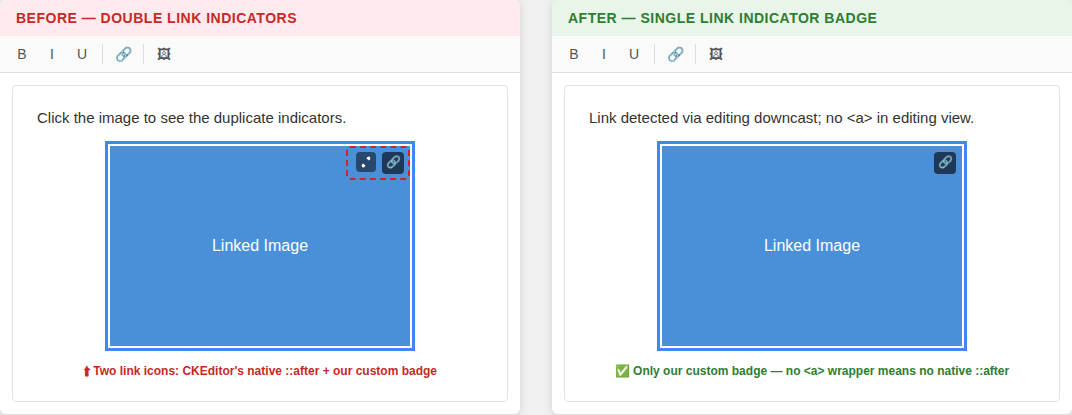
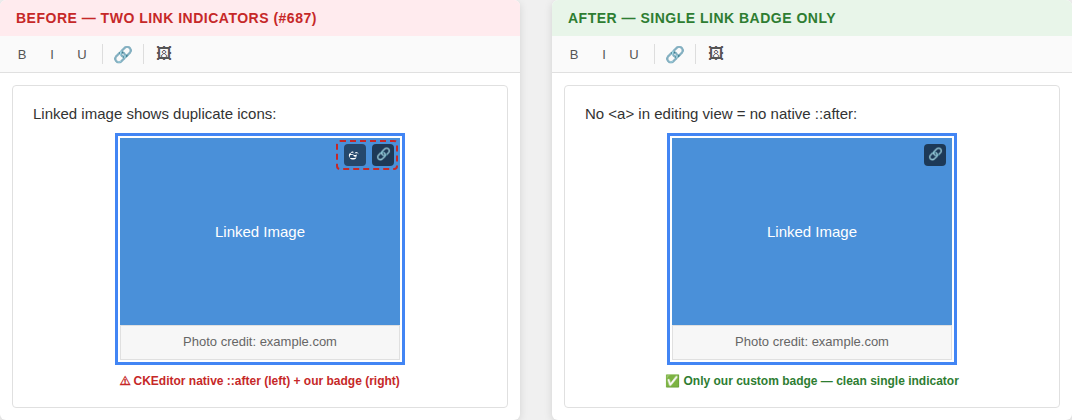
fix: address review comments on #688
- Extract isValidLink() helper to deduplicate link validation (#687)
- Add width/height to editing downcast attribute lists so max-width
  updates when image dimensions change (#686)
- Fix CSS comment to accurately describe selector scoping
- Import beforeEach from vitest in editing-downcast tests
- Simplify data downcast test to assert directly on element name
- Update before/after screenshots with more accurate mockups

diff --git a/Resources/Public/JavaScript/Plugins/typo3image.js b/Resources/Public/JavaScript/Plugins/typo3image.js
@@ -2650,6 +2650,10 @@ export default class Typo3Image extends Plugin {
                 converterPriority: 'high'
             });
 
+        // Check if a link href value represents a valid link.
+        // Empty strings and "/" (TYPO3 link browser default/placeholder) are not valid.
+        const isValidLink = (href) => href && href.trim() !== '' && href.trim() !== '/';
+
         // Helper function to create view element for typo3image
         const createImageViewElement = (modelElement, writer, { wrapInLink = true } = {}) => {
             const attributes= {
@@ -2704,11 +2708,10 @@ export default class Typo3Image extends Plugin {
             const imgElement = writer.createEmptyElement('img', attributes);
 
             // Check if model has link attributes and wrap in <a> if present
-            // Treat "/" as "no link" since it's TYPO3 link browser default/placeholder value
             // wrapInLink=false is used by editing downcast to prevent CKEditor's native
             // link indicator from duplicating our custom indicator badges (#687)
             const linkHref = modelElement.getAttribute('imageLinkHref');
-            if (wrapInLink && linkHref && linkHref.trim() !== '' && linkHref.trim() !== '/') {
+            if (wrapInLink && isValidLink(linkHref)) {
                 const linkAttributes = {
                     href: linkHref
                 };
@@ -2754,6 +2757,8 @@ export default class Typo3Image extends Plugin {
                         'fileUid',
                         'fileTable',
                         'src',
+                        'width',
+                        'height',
                         'enableZoom',
                         'imageLinkHref',
                         'imageLinkTarget',
@@ -2784,7 +2789,7 @@ export default class Typo3Image extends Plugin {
 
                     // Add visual indicators for link and zoom
                     const linkHref = modelElement.getAttribute('imageLinkHref');
-                    const hasLink = linkHref && linkHref.trim() !== '' && linkHref.trim() !== '/';
+                    const hasLink = isValidLink(linkHref);
                     const hasZoom = modelElement.getAttribute('enableZoom');
 
                     if (hasLink || hasZoom) {
@@ -2954,7 +2959,7 @@ export default class Typo3Image extends Plugin {
             // Check if model has link attributes and wrap in <a> if present
             // wrapInLink=false is used by editing downcast to prevent double link icon (#687)
             const linkHref = modelElement.getAttribute('imageLinkHref');
-            if (wrapInLink && linkHref && linkHref.trim() !== '' && linkHref.trim() !== '/') {
+            if (wrapInLink && isValidLink(linkHref)) {
                 const linkAttributes = {
                     href: linkHref
                 };
@@ -2995,6 +3000,8 @@ export default class Typo3Image extends Plugin {
                         'fileUid',
                         'fileTable',
                         'src',
+                        'width',
+                        'height',
                         'enableZoom',
                         'imageLinkHref',
                         'imageLinkTarget',
@@ -3017,7 +3024,7 @@ export default class Typo3Image extends Plugin {
 
                     // Add visual indicators for link and zoom (same as block images)
                     const linkHref = modelElement.getAttribute('imageLinkHref');
-                    const hasLink = linkHref && linkHref.trim() !== '' && linkHref.trim() !== '/';
+                    const hasLink = isValidLink(linkHref);
                     const hasZoom = modelElement.getAttribute('enableZoom');
 
                     if (hasLink || hasZoom) {

diff --git a/Tests/JavaScript/tests/editing-downcast.test.js b/Tests/JavaScript/tests/editing-downcast.test.js
@@ -9,7 +9,7 @@
  * @see https://github.com/netresearch/t3x-rte_ckeditor_image/issues/687
  */
 
-import { describe, it, expect } from 'vitest';
+import { describe, it, expect, beforeEach } from 'vitest';
 import {
   MockViewElement,
   MockModelElement,
@@ -210,19 +210,13 @@ describe('wrapInLink option (#687)', () => {
     it('should contain <a> element (existing behavior preserved)', () => {
       // Data downcast uses default wrapInLink=true
       const imageElement = createImageViewElement(linkedModel, writer);
-      // In data downcast, if there's a caption, it wraps in figure
-      // Without caption, it returns the element directly
-      const links = findElementsByName(imageElement, 'a');
 
-      // imageElement IS the <a> wrapping <img>
-      if (imageElement.name === 'a') {
-        expect(imageElement.getAttribute('href')).toBe('https://example.com');
-        const images = findElementsByName(imageElement, 'img');
-        expect(images).toHaveLength(1);
-      } else {
-        // This branch shouldn't happen for linked images
-        expect(links).toHaveLength(1);
-      }
+      // For a linked model, the result should be an <a> element wrapping <img>
+      expect(imageElement.name).toBe('a');
+      expect(imageElement.getAttribute('href')).toBe('https://example.com');
+
+      const images = findElementsByName(imageElement, 'img');
+      expect(images).toHaveLength(1);
     });
   });
 });

diff --git a/Resources/Public/Css/editor-image-widget.css b/Resources/Public/Css/editor-image-widget.css
@@ -38,9 +38,10 @@ figure.ck-widget.image .ck-image-indicators {
 /* Suppress CKEditor's built-in link indicator (::after on figure > a)
    since we provide our own .ck-image-indicator--link badges.
    See: CKEditor linkimage.css adds ::after to figure.image > a
-   and a span.image-inline — without this override, both indicators show.
-   Scoped to .ck-widget selectors to avoid affecting non-editor content.
-   Broadened selectors to match CKEditor's native patterns (#687). */
+   and span.image-inline > a — without this override, both indicators show.
+   Both broad selectors (figure.image, span.image-inline) and widget-scoped
+   selectors (.ck-widget.image, .ck-widget_inline-image) are needed because
+   CKEditor's own linkimage.css uses the broad forms (#687). */
 figure.image > a::after,
 figure.ck-widget.image > a::after,
 span.image-inline > a::after,
